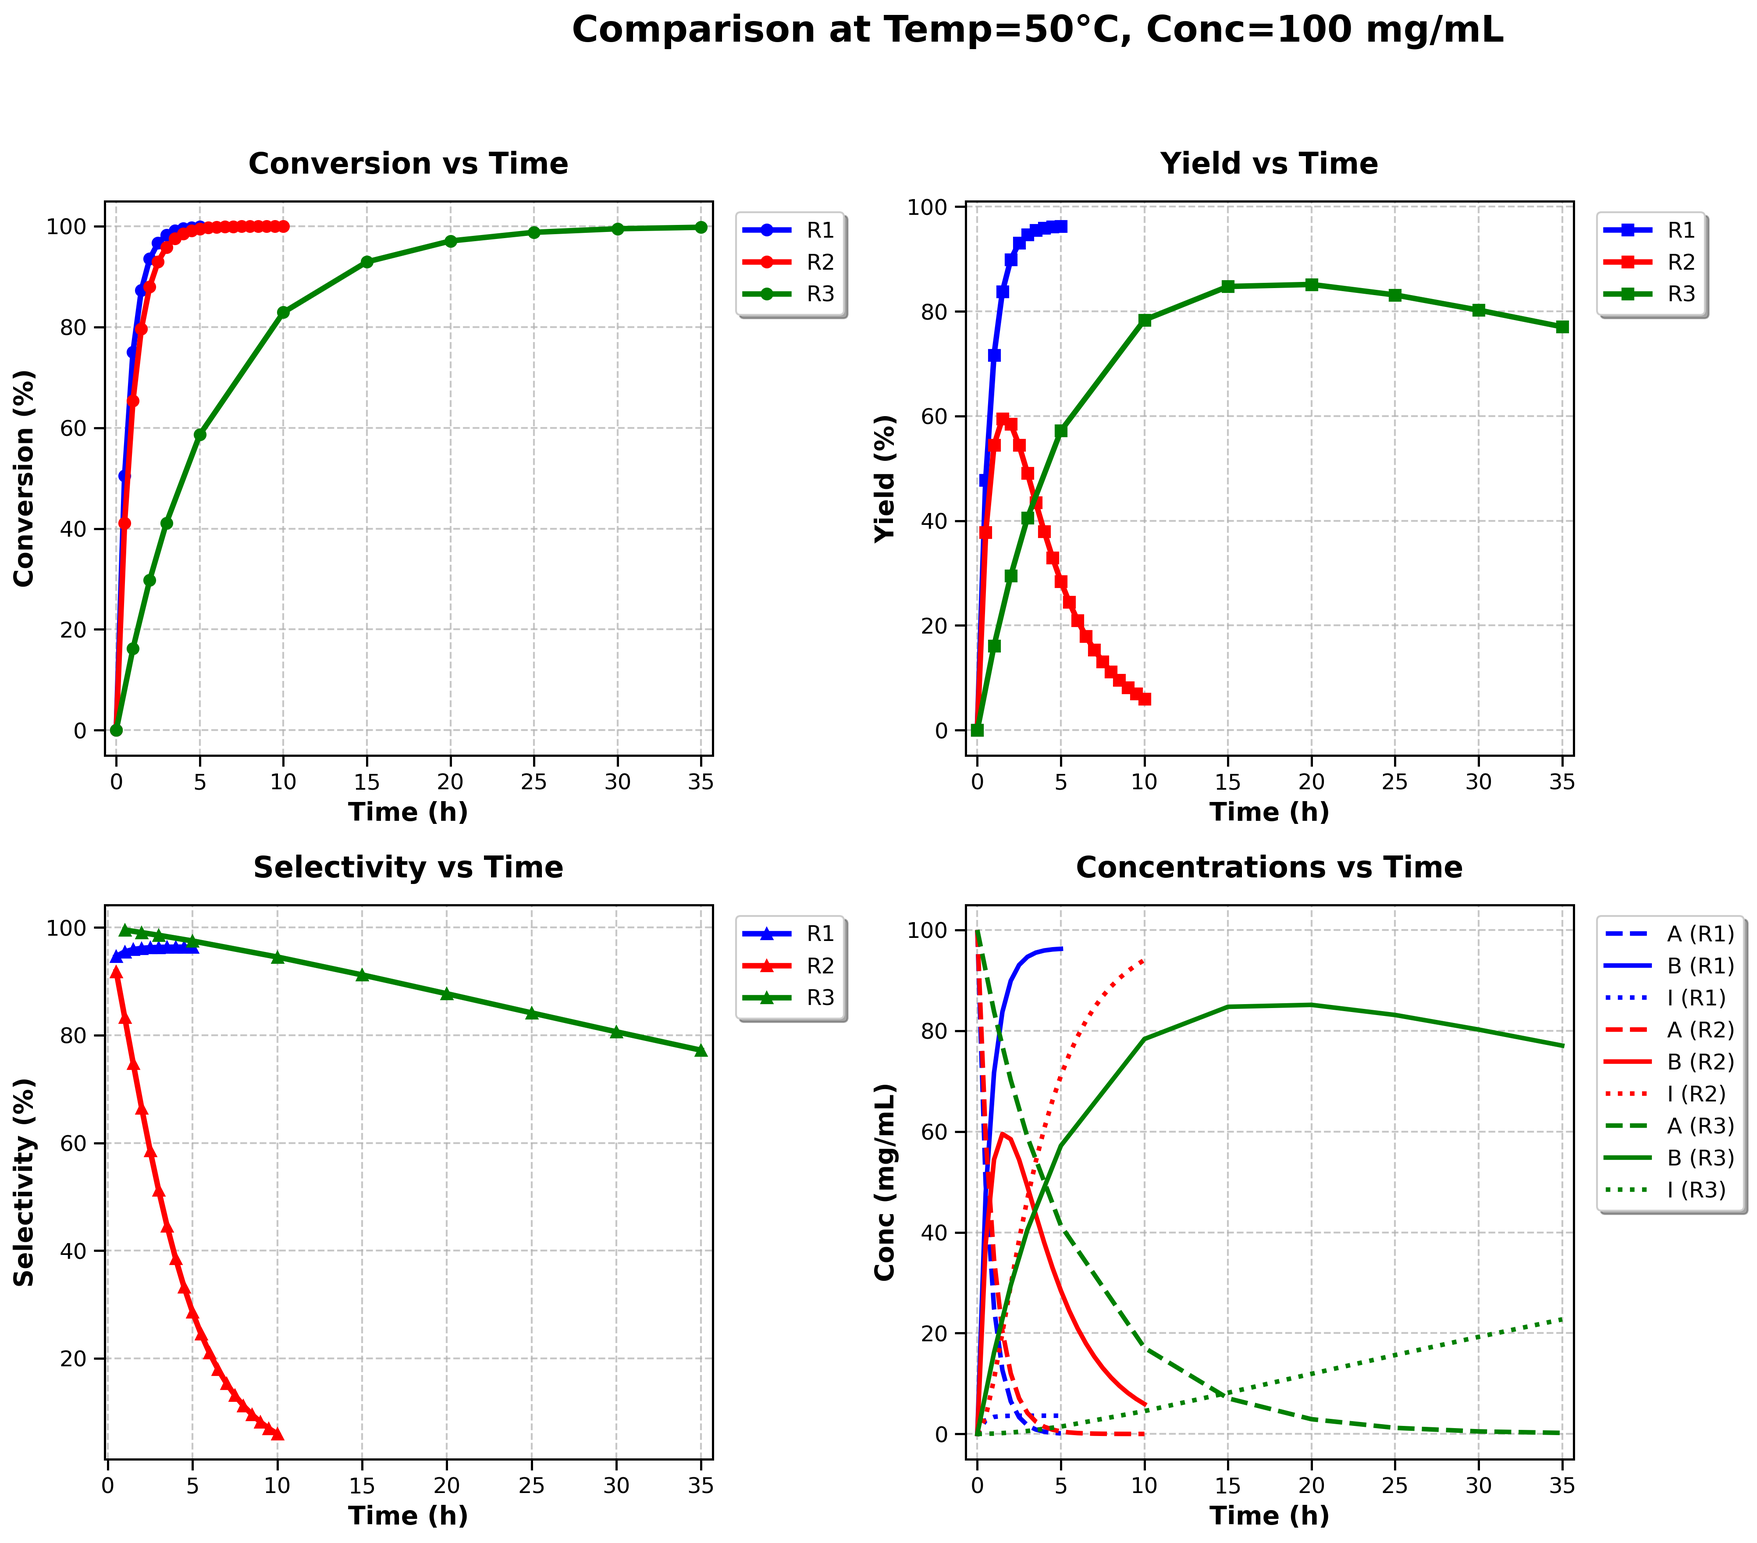
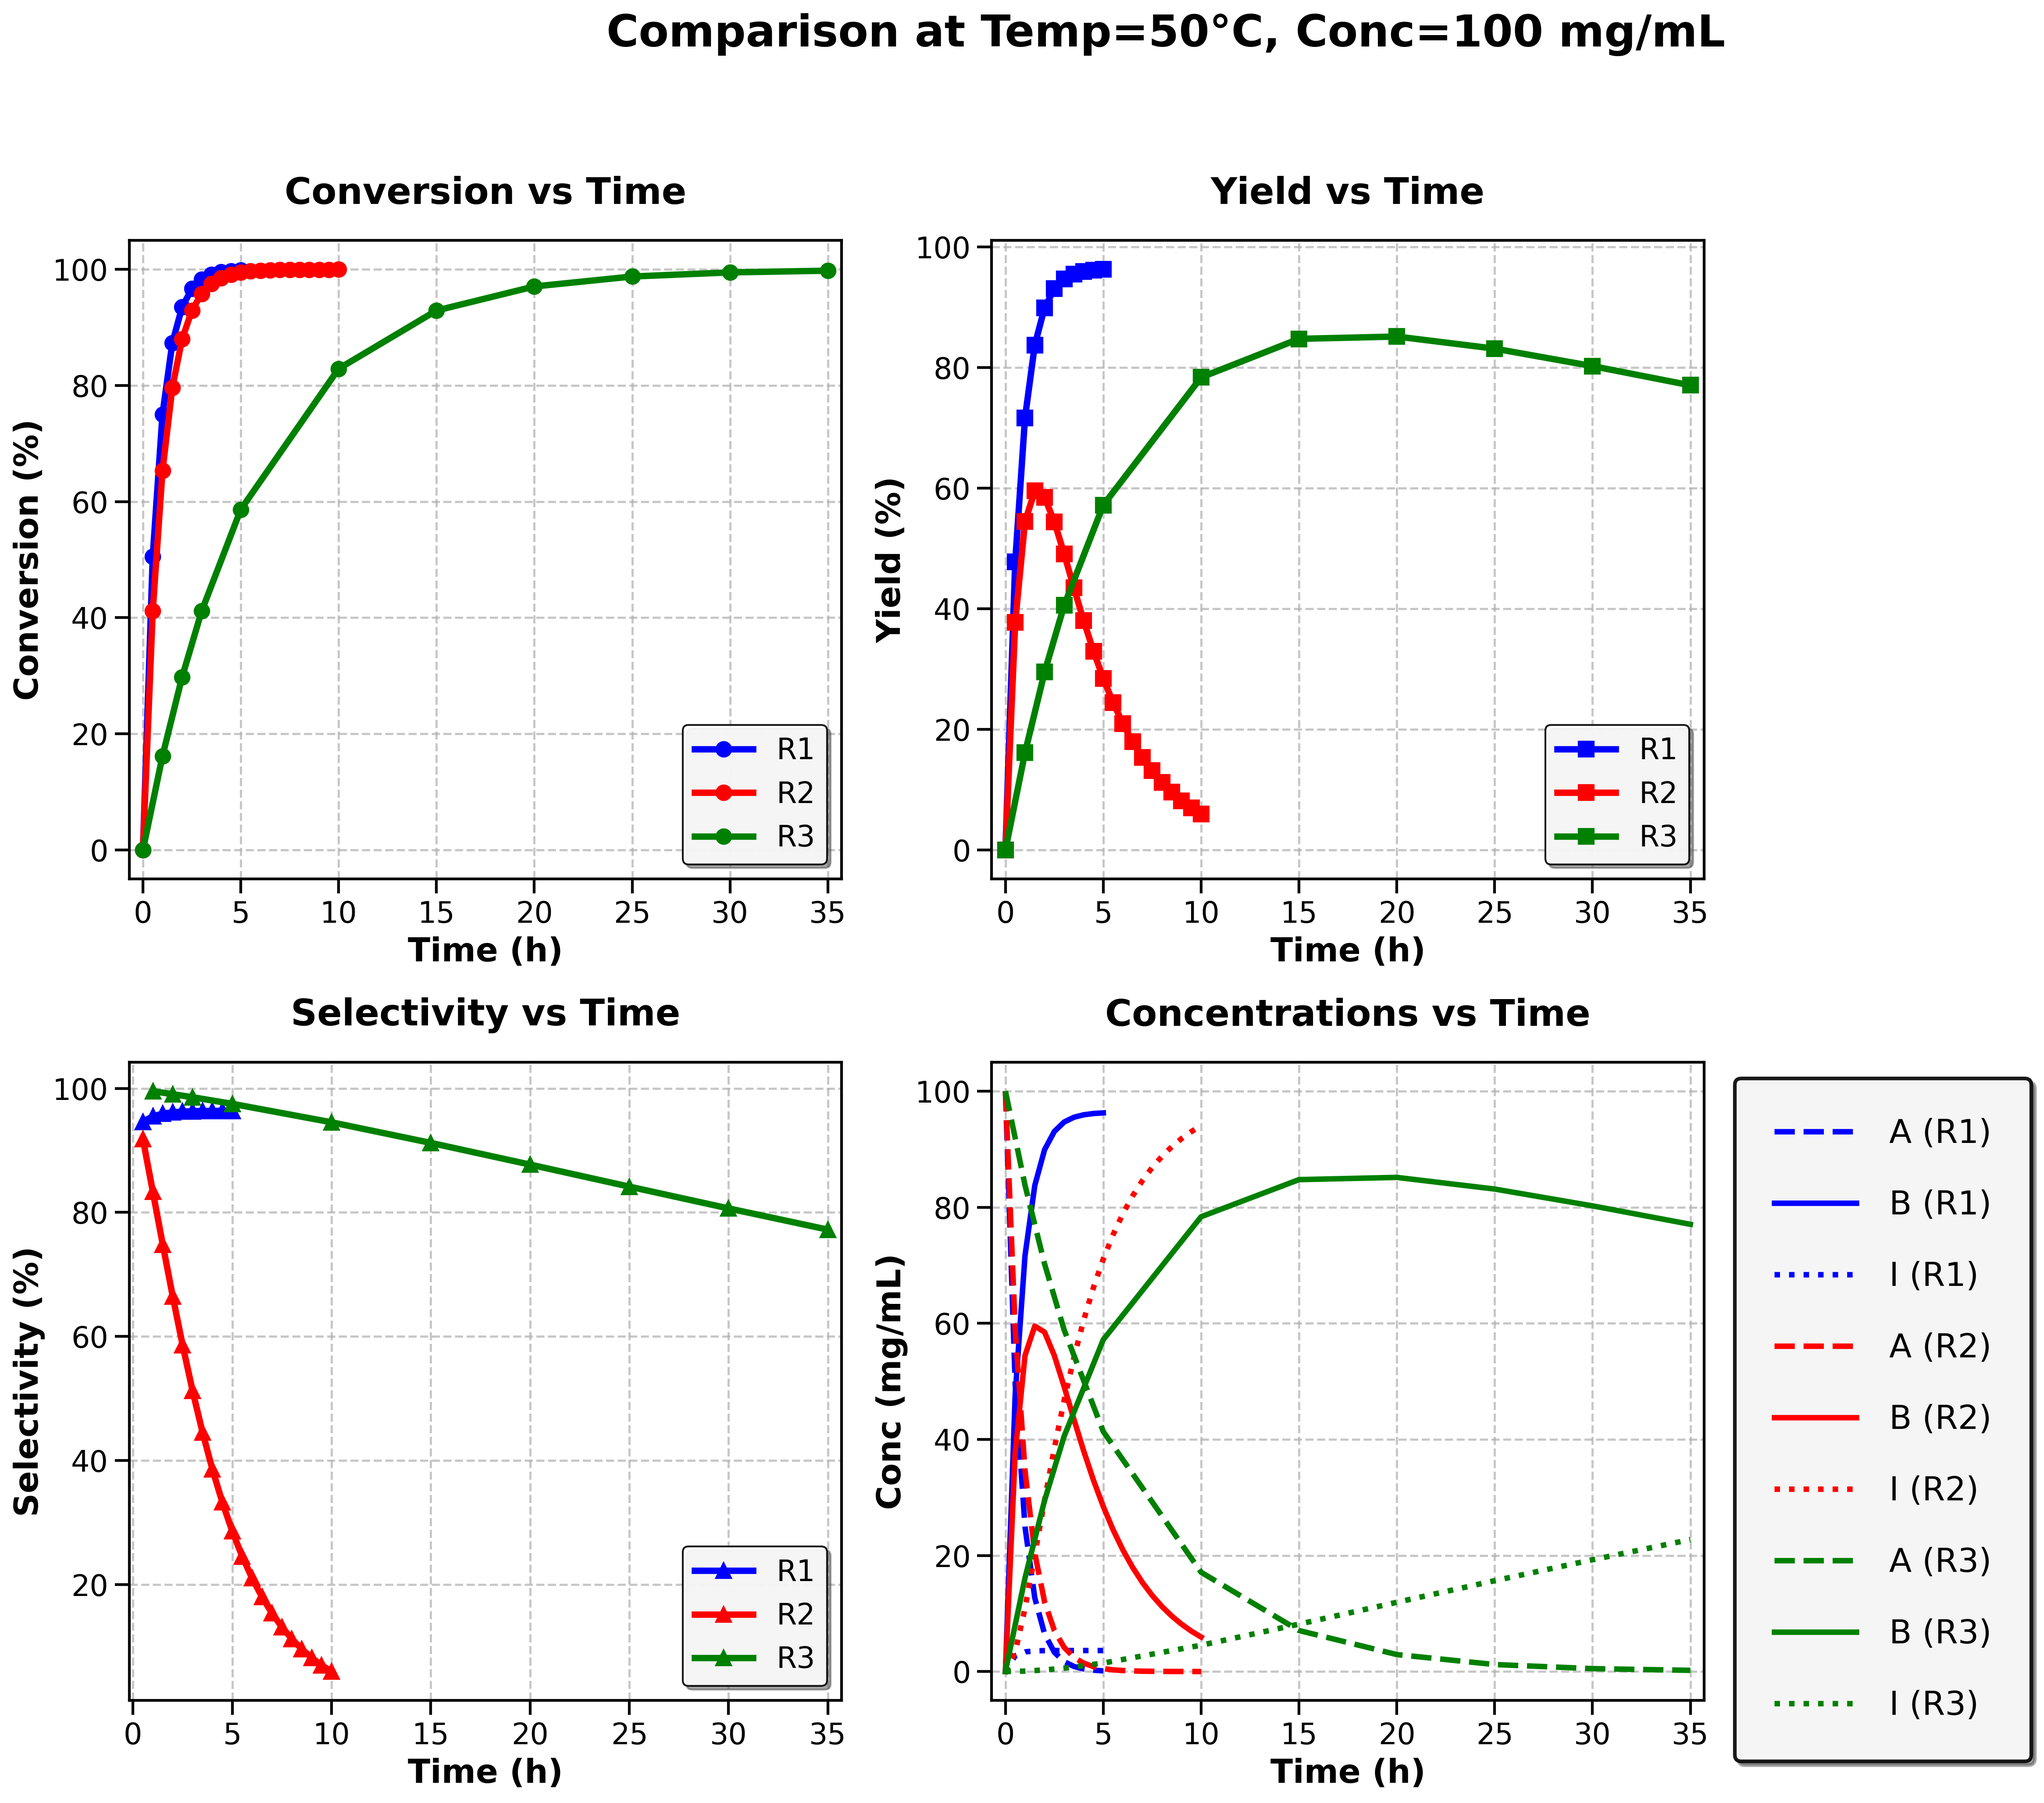
Enhanced legend positioning and maximum readability improvements
Legend Improvements:
- Positioned legends in bottom right for first 3 plots (Conversion, Yield, Selectivity)
- Enhanced concentration plot legend with larger fonts (18pt) and increased vertical spacing
- Added professional styling with shadows, borders, and improved spacing

Font & Visual Enhancements:
- Increased base font size: 1618pt, titles: 2022pt, axis labels: 1820pt
- Enhanced tick marks: 10pt size, 2.0pt width for better visibility
- Thicker lines (3.5pt), larger markers (8pt), and enhanced grid (1.4pt)
- Improved plot dimensions (1814) for optimal spacing and readability

Technical Updates:
- Updated file references from 'Comprehensive_Reaction_Analysis.xlsx' to 'Q1 - Rxn_Analysis.xlsx'
- Regenerated all 17 visualization files with enhanced readability standards
- Maintained 300 DPI export quality for professional presentations

All plots now optimized for both digital viewing and high-quality printing

diff --git a/plot_reactions.py b/plot_reactions.py
@@ -4,16 +4,20 @@ import os
 
 # Set matplotlib parameters for better readability
 plt.rcParams.update({
-    'font.size': 14,           # Base font size
-    'axes.titlesize': 16,      # Subplot titles
-    'axes.labelsize': 14,      # Axis labels
-    'xtick.labelsize': 12,     # X-axis tick labels
-    'ytick.labelsize': 12,     # Y-axis tick labels
-    'legend.fontsize': 12,     # Legend
-    'figure.titlesize': 18,    # Main title
-    'lines.linewidth': 2.5,    # Line thickness
-    'grid.linewidth': 1.0,     # Grid line thickness
-    'axes.linewidth': 1.2      # Axes border thickness
+    'font.size': 16,           # Increased base font size
+    'axes.titlesize': 20,      # Increased subplot titles
+    'axes.labelsize': 18,      # Increased axis labels
+    'xtick.labelsize': 16,     # Increased X-axis tick labels
+    'ytick.labelsize': 16,     # Increased Y-axis tick labels
+    'legend.fontsize': 14,     # Legend
+    'figure.titlesize': 22,    # Increased main title
+    'lines.linewidth': 3.0,    # Thicker line thickness
+    'grid.linewidth': 1.2,     # Grid line thickness
+    'axes.linewidth': 1.5,     # Axes border thickness
+    'xtick.major.size': 8,     # Larger x-axis tick marks
+    'ytick.major.size': 8,     # Larger y-axis tick marks
+    'xtick.major.width': 1.5,  # Thicker x-axis tick marks
+    'ytick.major.width': 1.5   # Thicker y-axis tick marks
 })
 
 # COMPARISON PLOTS
@@ -41,8 +45,8 @@ colors = {"R1":"blue", "R2":"red", "R3":"green"}
 pairs = sorted(set(zip(data["R1"]["Temp_C"], data["R1"]["A0_mgml"])))
 
 for (T, C0) in pairs:
-    fig, axes = plt.subplots(2, 2, figsize=(16, 12))  # Increased from (12, 10)
-    fig.suptitle(f"Comparison at Temp={T}°C, Conc={C0} mg/mL", fontsize=20, fontweight="bold", y=0.98)
+    fig, axes = plt.subplots(2, 2, figsize=(18, 14))  # Increased size for better spacing
+    fig.suptitle(f"Comparison at Temp={T}°C, Conc={C0} mg/mL", fontsize=24, fontweight="bold", y=0.98)
 
     # Loop reactions
     for rxn in ["R1","R2","R3"]:
@@ -54,51 +58,75 @@ for (T, C0) in pairs:
         
         # Conversion vs Time
         axes[0,0].plot(subset["Time_h"], subset["Conversion_pct"], 
-                       label=rxn, color=colors[rxn], linewidth=3, marker='o', markersize=6)
+                       label=rxn, color=colors[rxn], linewidth=3.5, marker='o', markersize=8)
         
         # Yield vs Time
         axes[0,1].plot(subset["Time_h"], subset["Yield_pct"], 
-                       label=rxn, color=colors[rxn], linewidth=3, marker='s', markersize=6)
+                       label=rxn, color=colors[rxn], linewidth=3.5, marker='s', markersize=8)
         
         # Selectivity vs Time
         axes[1,0].plot(subset["Time_h"], subset["Selectivity_pct"], 
-                       label=rxn, color=colors[rxn], linewidth=3, marker='^', markersize=6)
+                       label=rxn, color=colors[rxn], linewidth=3.5, marker='^', markersize=8)
         
         # Concentrations vs Time (A, B, I)
         axes[1,1].plot(subset["Time_h"], subset["A_mgml"], 
-                       label=f"A ({rxn})", linestyle="--", color=colors[rxn], linewidth=2.5)
+                       label=f"A ({rxn})", linestyle="--", color=colors[rxn], linewidth=3.0)
         axes[1,1].plot(subset["Time_h"], subset["B_mgml"], 
-                       label=f"B ({rxn})", linestyle="-", color=colors[rxn], linewidth=2.5)
+                       label=f"B ({rxn})", linestyle="-", color=colors[rxn], linewidth=3.0)
         axes[1,1].plot(subset["Time_h"], subset["I_mgml"], 
-                       label=f"I ({rxn})", linestyle=":", color=colors[rxn], linewidth=2.5)
+                       label=f"I ({rxn})", linestyle=":", color=colors[rxn], linewidth=3.0)
     
     # Titles & labels with larger fonts
-    axes[0,0].set_title("Conversion vs Time", fontsize=16, fontweight='bold', pad=15)
-    axes[0,0].set_xlabel("Time (h)", fontsize=14, fontweight='bold')
-    axes[0,0].set_ylabel("Conversion (%)", fontsize=14, fontweight='bold')
+    axes[0,0].set_title("Conversion vs Time", fontsize=20, fontweight='bold', pad=20)
+    axes[0,0].set_xlabel("Time (h)", fontsize=18, fontweight='bold')
+    axes[0,0].set_ylabel("Conversion (%)", fontsize=18, fontweight='bold')
     
-    axes[0,1].set_title("Yield vs Time", fontsize=16, fontweight='bold', pad=15)
-    axes[0,1].set_xlabel("Time (h)", fontsize=14, fontweight='bold')
-    axes[0,1].set_ylabel("Yield (%)", fontsize=14, fontweight='bold')
+    axes[0,1].set_title("Yield vs Time", fontsize=20, fontweight='bold', pad=20)
+    axes[0,1].set_xlabel("Time (h)", fontsize=18, fontweight='bold')
+    axes[0,1].set_ylabel("Yield (%)", fontsize=18, fontweight='bold')
     
-    axes[1,0].set_title("Selectivity vs Time", fontsize=16, fontweight='bold', pad=15)
-    axes[1,0].set_xlabel("Time (h)", fontsize=14, fontweight='bold')
-    axes[1,0].set_ylabel("Selectivity (%)", fontsize=14, fontweight='bold')
+    axes[1,0].set_title("Selectivity vs Time", fontsize=20, fontweight='bold', pad=20)
+    axes[1,0].set_xlabel("Time (h)", fontsize=18, fontweight='bold')
+    axes[1,0].set_ylabel("Selectivity (%)", fontsize=18, fontweight='bold')
     
-    axes[1,1].set_title("Concentrations vs Time", fontsize=16, fontweight='bold', pad=15)
-    axes[1,1].set_xlabel("Time (h)", fontsize=14, fontweight='bold')
-    axes[1,1].set_ylabel("Conc (mg/mL)", fontsize=14, fontweight='bold')
+    axes[1,1].set_title("Concentrations vs Time", fontsize=20, fontweight='bold', pad=20)
+    axes[1,1].set_xlabel("Time (h)", fontsize=18, fontweight='bold')
+    axes[1,1].set_ylabel("Conc (mg/mL)", fontsize=18, fontweight='bold')
     
-    # Enhanced legends and grids
+    # Enhanced legends - BOTTOM RIGHT for first 3 plots, enhanced legend for concentration plot
+    # Conversion plot - legend bottom right
+    axes[0,0].legend(fontsize=16, frameon=True, fancybox=True, shadow=True, 
+                     loc='lower right', facecolor='white', edgecolor='black', framealpha=0.9)
+    
+    # Yield plot - legend bottom right  
+    axes[0,1].legend(fontsize=16, frameon=True, fancybox=True, shadow=True, 
+                     loc='lower right', facecolor='white', edgecolor='black', framealpha=0.9)
+    
+    # Selectivity plot - legend bottom right
+    axes[1,0].legend(fontsize=16, frameon=True, fancybox=True, shadow=True, 
+                     loc='lower right', facecolor='white', edgecolor='black', framealpha=0.9)
+    
+    # Concentration plot - larger legend with increased vertical height and fonts
+    leg = axes[1,1].legend(fontsize=18, frameon=True, fancybox=True, shadow=True, 
+                          bbox_to_anchor=(1.02, 1), loc='upper left', 
+                          facecolor='white', edgecolor='black', framealpha=0.9,
+                          borderpad=1.2, columnspacing=1.5, handlelength=2.5, 
+                          handletextpad=1.0, labelspacing=1.2)
+    # Increase legend frame thickness
+    leg.get_frame().set_linewidth(2.0)
+    
+    # Enhanced grids and tick formatting
     for ax in axes.flatten():
-        ax.legend(fontsize=12, frameon=True, fancybox=True, shadow=True, 
-                 bbox_to_anchor=(1.02, 1), loc='upper left')
-        ax.grid(True, linestyle="--", alpha=0.7, linewidth=1)
-        ax.tick_params(axis='both', which='major', labelsize=12, width=1.2, length=6)
+        ax.grid(True, linestyle="--", alpha=0.7, linewidth=1.2)
+        ax.tick_params(axis='both', which='major', labelsize=16, width=1.5, length=8)
+        ax.tick_params(axis='both', which='minor', labelsize=14, width=1.0, length=6)
         # Add some padding to the axes
         ax.margins(x=0.02, y=0.05)
+        # Make axes more prominent
+        for spine in ax.spines.values():
+            spine.set_linewidth(1.5)
     
-    plt.tight_layout(rect=[0, 0, 0.85, 0.95])  # Adjusted for larger legends
+    plt.tight_layout(rect=[0, 0, 0.88, 0.95])  # Adjusted for concentration plot legend
     plt.savefig(f"{outdir}/Comparison_T{T}_C{C0}.png", dpi=300, bbox_inches='tight', 
                 facecolor='white', edgecolor='none')
     plt.close()

diff --git a/visualize_improved_results.py b/visualize_improved_results.py
@@ -7,25 +7,29 @@ print("📊 CREATING IMPROVED COMPREHENSIVE VISUALIZATION")
 print("="*60)
 
 # Load the saved results
-df_conditions = pd.read_excel('Comprehensive_Reaction_Analysis.xlsx', sheet_name='Condition_by_Condition')
-df_overall = pd.read_excel('Comprehensive_Reaction_Analysis.xlsx', sheet_name='Overall_Rankings')
+df_conditions = pd.read_excel('Q1 - Rxn_Analysis.xlsx', sheet_name='Condition_by_Condition')
+df_overall = pd.read_excel('Q1 - Rxn_Analysis.xlsx', sheet_name='Overall_Rankings')
 
 # Ensure consistent ordering: R1, R2, R3
 reaction_order = ['R1', 'R2', 'R3']
 df_overall = df_overall.set_index('reaction').reindex(reaction_order).reset_index()
 
-# Set global font sizes for better readability
+# Set global font sizes for enhanced readability
 plt.rcParams.update({
-    'font.size': 16,           # Increased base font size
-    'axes.titlesize': 18,      # Increased subplot titles
-    'axes.labelsize': 16,      # Increased axis labels
-    'xtick.labelsize': 14,     # Increased X-axis tick labels
-    'ytick.labelsize': 14,     # Increased Y-axis tick labels
-    'legend.fontsize': 14,     # Increased legend
-    'figure.titlesize': 22,    # Increased main title
-    'lines.linewidth': 3.0,    # Thicker lines
-    'grid.linewidth': 1.2,     # Thicker grid lines
-    'axes.linewidth': 1.5      # Thicker axes border
+    'font.size': 18,           # Further increased base font size
+    'axes.titlesize': 22,      # Larger subplot titles
+    'axes.labelsize': 20,      # Larger axis labels
+    'xtick.labelsize': 18,     # Larger X-axis tick labels
+    'ytick.labelsize': 18,     # Larger Y-axis tick labels
+    'legend.fontsize': 16,     # Larger legend
+    'figure.titlesize': 26,    # Larger main title
+    'lines.linewidth': 3.5,    # Even thicker lines
+    'grid.linewidth': 1.4,     # Thicker grid lines
+    'axes.linewidth': 1.8,     # Thicker axes border
+    'xtick.major.size': 10,    # Larger x-axis tick marks
+    'ytick.major.size': 10,    # Larger y-axis tick marks
+    'xtick.major.width': 2.0,  # Thicker x-axis tick marks
+    'ytick.major.width': 2.0   # Thicker y-axis tick marks
 })
 
 # ========================================
@@ -249,7 +253,7 @@ print(f"It consistently outperforms across ALL priority criteria and conditions.
 print(f"\n📊 Files Generated:")
 print(f"• Reaction_Performance_Comparison.png - Comparison plots")
 print(f"• Performance_Score_Matrix.png - Heatmap visualization")
-print(f"• Comprehensive_Reaction_Analysis.xlsx - Detailed data")
+print(f"• Q1 - Rxn_Analysis.xlsx - Detailed data")
 
 # Reset font settings
 plt.rcParams.update(plt.rcParamsDefault)
